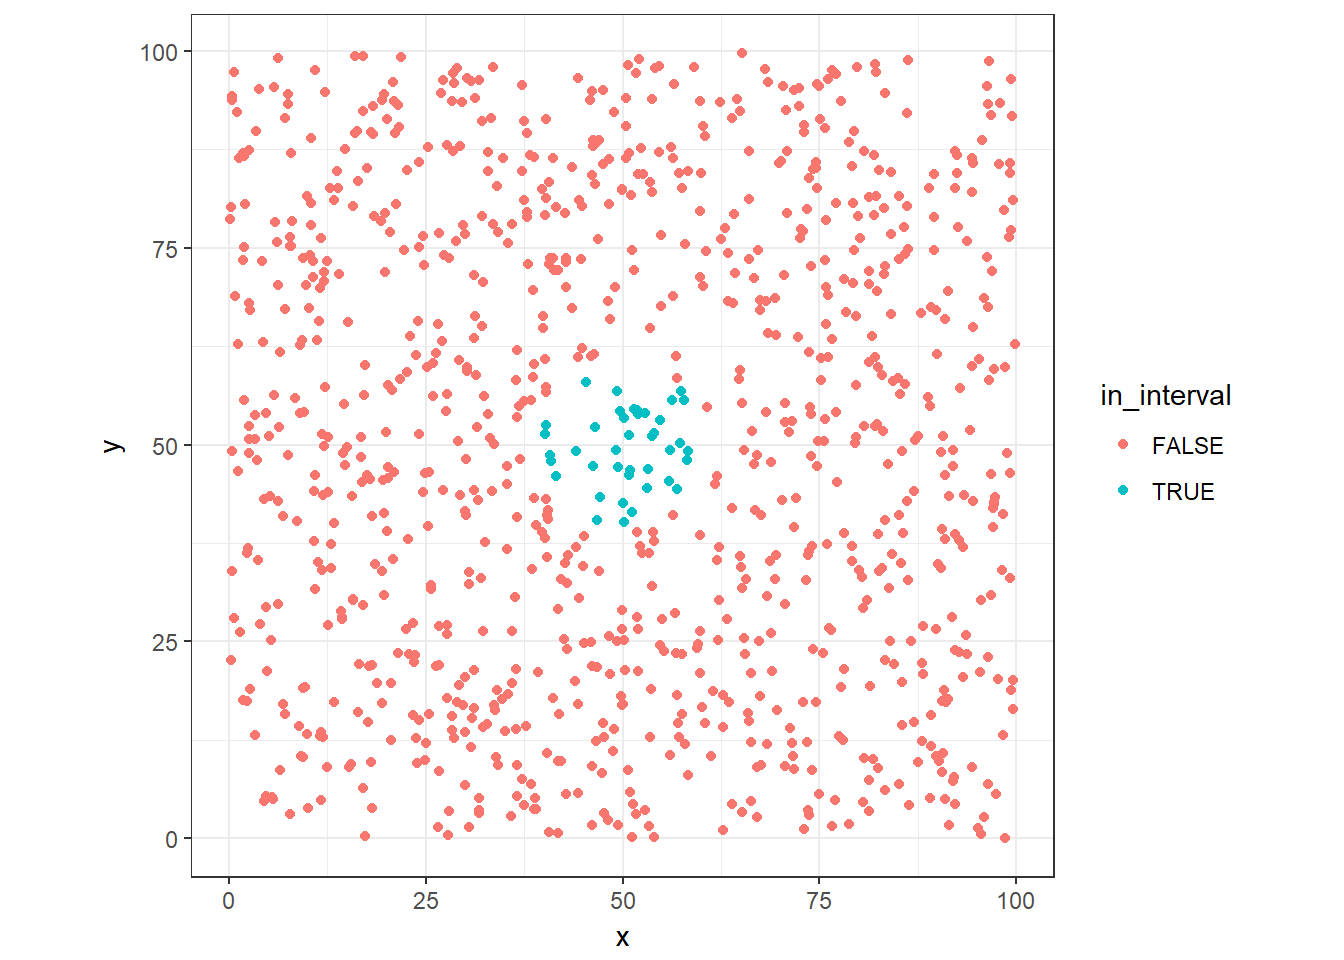
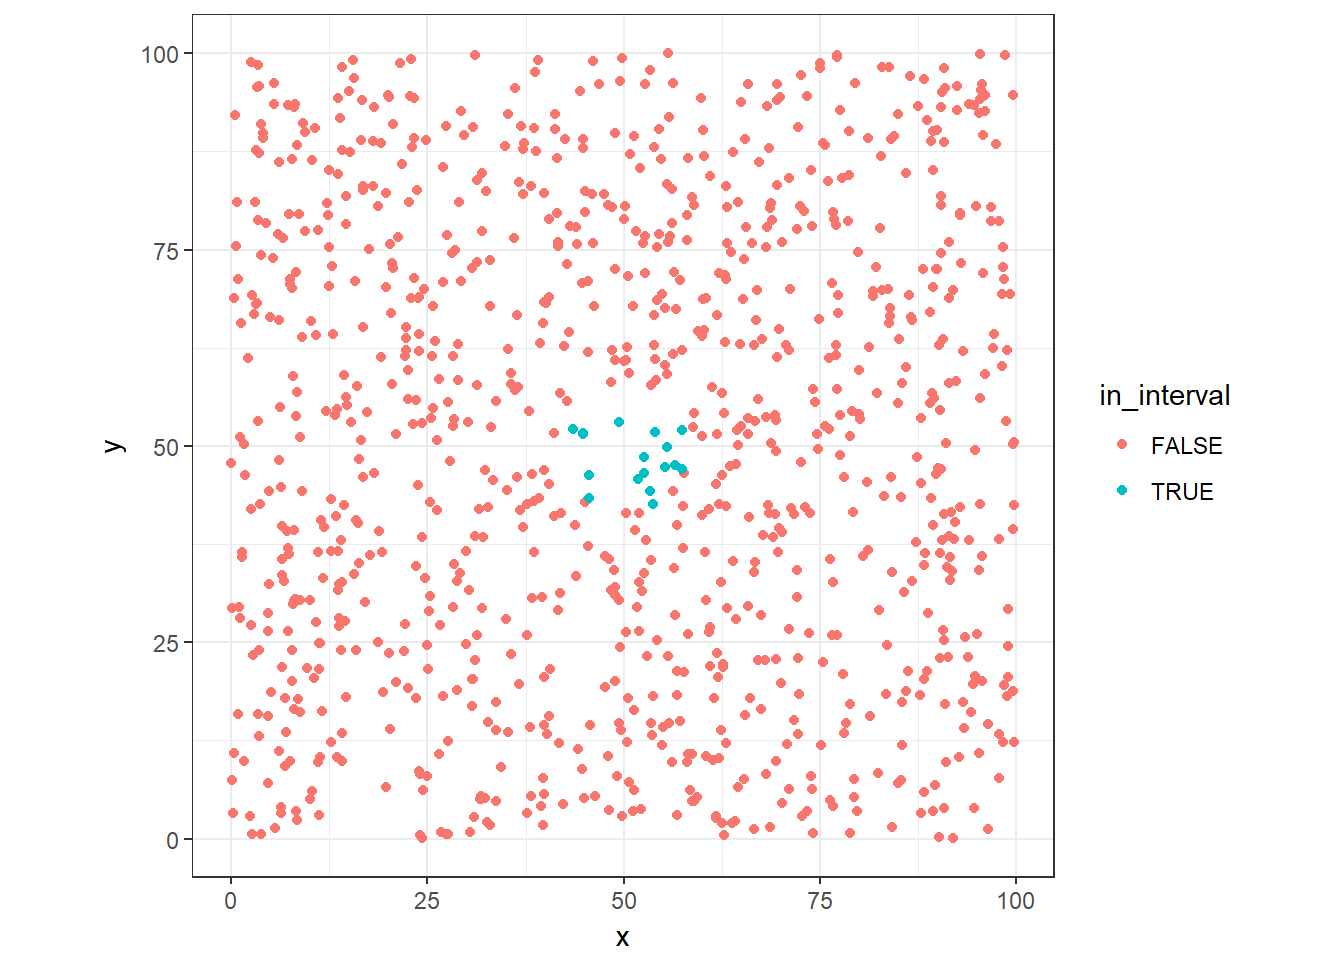
ending the new post about TCX and ggmap

diff --git a/content/post/2018-01-16-reading-your-run-and-mtb-tracks-with-r.html b/content/post/2018-01-16-reading-your-run-and-mtb-tracks-with-r.html
@@ -1,34 +1,33 @@
 ---
-title: Reading your run and MTB tracks with R
-author: Giuliano Sposito
+title: "Ploting your MTB track with R"
+author: "Giuliano Sposito"
 date: '2018-01-16'
-categories:
-  - data science
-tags:
-  - gps
-  - workout
-  - rstat
-  - gpx
-  - tcx
-  - runtastic
-  - strava
-  - fitbit
-slug: reading-your-run-and-mtb-tracks-with-r
-thumbnailImagePosition: left
-thumbnailImage: images/fitbit_tn.jpg
 coverImage: /images/mtb_cover.jpg
-metaAlignment: center
 disqusIdentifier: rstatreadingtcxfiles
+metaAlignment: center
+slug: reading-your-run-and-mtb-tracks-with-r
+tags:
+- gps
+- workout
+- rstat
+- gpx
+- tcx
+- runtastic
+- strava
+- fitbit
+thumbnailImage: images/fitbit_tn.jpg
+thumbnailImagePosition: left
+categories: data science
 ---
 
 
 
-<p>In this <a href="http://rmarkdown.rstudio.com/r_notebooks.html">RNotebook</a> we’ll read a <a href="https://en.wikipedia.org/wiki/Training_Center_XML">TCX</a> and <a href="https://en.wikipedia.org/wiki/GPS_Exchange_Format">GPX</a> files, used to track physical training and exercises evolving GPS and paths used by some workout Mobile Apps and Devices.</p>
-<div id="tracking-files" class="section level2">
-<h2>Tracking Files</h2>
+<p>In this <a href="http://rmarkdown.rstudio.com/r_notebooks.html">RNotebook</a> we’ll read a <a href="https://en.wikipedia.org/wiki/Training_Center_XML">TCX</a> and <a href="https://en.wikipedia.org/wiki/GPS_Exchange_Format">GPX</a> files, used to track physical training and exercises evolving GPS and paths used by some workout Mobile Apps and Devices. Particularly we’ll will process one TCX file containing a MTB ride mine and transforming the a useful R data.frame ploting the ride track over a map.</p>
+<div id="tracking-files1" class="section level2">
+<h2>Tracking Files<a href="#fn1" class="footnoteRef" id="fnref1"><sup>1</sup></a></h2>
 <p>There are two popular file format to track workouts and routes through GPS devices: GPX and TCX.</p>
 <p><strong>GPX</strong> is an <a href="https://en.wikipedia.org/wiki/XML">XML</a> format designed specifically for saving GPS track, way point and route data. It is increasingly used by GPS programs because of its flexibility as an XML schema. More information can be found on the official <a href="http://www.topografix.com">GPX website</a>.</p>
-<p>The <strong>TCX</strong> format is also an <a href="https://en.wikipedia.org/wiki/XML">XML</a> format, but was created by <a href="http://www.garmin.com">Garmin</a> to include additional data with each track point (e.g. heart rate and cadence) as well as a user defined organizational structure. The format appears to be primarily used by Garmin’s fitness oriented GPS devices. The TCX schema is hosted by <a href="http://www.garmin.com">Garmin</a>.<a href="#fn1" class="footnoteRef" id="fnref1"><sup>1</sup></a></p>
+<p>The <strong>TCX</strong> format is also an <a href="https://en.wikipedia.org/wiki/XML">XML</a> format, but was created by <a href="http://www.garmin.com">Garmin</a> to include additional data with each track point (e.g. heart rate and cadence) as well as a user defined organizational structure. The format appears to be primarily used by Garmin’s fitness oriented GPS devices. The TCX schema is hosted by <a href="http://www.garmin.com">Garmin</a>.</p>
 <p>Many of the dozens of other formats can be converted into GPX or TCX formats using <a href="http://www.gpsbabel.org">GPSBabel</a>.</p>
 </div>
 <div id="reading-a-tcx-file" class="section level2">
@@ -147,8 +146,50 @@ ggplot(track, aes(x=dt, y=hbpm)) +
   theme_bw() </code></pre>
 <p><img src="/post/2018-01-16-reading-your-run-and-mtb-tracks-with-r_files/figure-html/plotAlt-1.png" width="672" /></p>
 </div>
-<div id="reading-a-gpx-file" class="section level2">
-<h2>Reading a GPX file</h2>
+<div id="ploting-the-track" class="section level2">
+<h2>Ploting the track</h2>
+<p>We can take the latitude and longitude coordenates extract from TCX and plot the path executed during this ride. This is pretty straighforward using <code>geom_path()</code>in <code>ggplot2</code>.</p>
+<pre class="r"><code># ploting latitude in N/S orietation and lon as E/L orientation
+ggplot(track, aes(x=lon, y=lat)) +
+  geom_path(aes(colour=alt), size=1.2) + # ploting alt as color reference
+  scale_colour_gradientn(colours = terrain.colors(10)) + # color scale
+  coord_fixed() + # to keep the aspect ratio
+  theme_void() # removint axis</code></pre>
+<p><img src="/post/2018-01-16-reading-your-run-and-mtb-tracks-with-r_files/figure-html/plotTrack-1.png" width="672" /></p>
+<p>That’s cool, we extract the GPS path from TCX file and plot them with a couple of lines, just remaining plot over a map, and this is easy too, using <code>ggmap</code>package.</p>
+</div>
+<div id="ploting-over-a-map" class="section level2">
+<h2>Ploting over a map</h2>
+<p>The <a href="https://cran.r-project.org/web/packages/ggmap/index.html">ggmap R Package</a> is a collection of functions to visualize spatial data and models on top of static maps from various online sources (e.g Google Maps and Stamen Maps). It includes tools common to those tasks, including functions for geolocation and routing.</p>
+<p>The package uses some providers to get a “background” image to be used as base map, also maps the scale of the image to the appropriate lat/lon coordenates.</p>
+<pre class="r"><code>library(ggmap)
+
+# first we define a &quot;box&quot; based on lats and lons that will ploted over
+# the make_bbox build it.
+bbox &lt;- make_bbox(lon = track$lon, lat=track$lat, f=.1)
+
+# after that we ask for a map containing this box to one of the providers
+# in this case we&#39;ll ask for google maps a &#39;terrain map&#39;
+gmap &lt;- get_map( location=bbox, maptype = &quot;terrain&quot;, source=&quot;google&quot;)
+
+# we can see the map obtained
+ggmap(gmap)</code></pre>
+<p><img src="/post/2018-01-16-reading-your-run-and-mtb-tracks-with-r_files/figure-html/mapBackground-1.png" width="672" /></p>
+<p>Once with the map background in hands, we just plot the track over it, changing the color scale to improve the contrast.</p>
+<pre class="r"><code># now the ggmap is the base o ggplot
+ggmap(gmap) +
+  # ploting the path using lon and lat as coordenates and alt as color
+  geom_path(data=track, aes(x=lon, y=lat, colour=alt), size=1.2) + 
+  scale_colour_gradientn(colours = topo.colors(10)) + # color scale
+  coord_fixed() + # to keep the aspect ratio
+  theme_void() # removint axis</code></pre>
+<p><img src="/post/2018-01-16-reading-your-run-and-mtb-tracks-with-r_files/figure-html/plotOverMap-1.png" width="672" /></p>
+</div>
+<div id="conclusion" class="section level2">
+<h2>Conclusion</h2>
+<p>As we saw, it’s pretty straightforward to get the data in the XML and transform them in a useful R data frame. Obviously if the XML was more complicated, with several activities and laps, we should handle this info if we want keep these informations before read the <code>trackpoints</code>. The data frame with track points would gain <code>activity.id</code> and <code>lap.id</code> columns. The use of <code>ggmap</code> is very helpful to use maps and gglot together.</p>
+<div id="appendix-reading-a-gpx-file" class="section level3">
+<h3>Appendix: Reading a GPX file</h3>
 <p>Basically, as we using XPath to get the data points, reading a GPX file is pretty the same, let’s look the structure of one file exported from <a href="http://www.runtastic.com">Runtastic website</a></p>
 <pre class="xml"><code>
 &lt;?xml version=&quot;1.0&quot; encoding=&quot;UTF-8&quot;?&gt;
@@ -189,7 +230,7 @@ ggplot(track, aes(x=dt, y=hbpm)) +
   &lt;/trk&gt;
 &lt;/gpx&gt;
 </code></pre>
-<p>Basically same metadata in the beginning and the <code>track points</code> are in the nodes <code>trkpt</code> but the struct is different, the GPS coords are <code>attributes</code> of these nodes while <code>elevation</code> and <code>time</code> are sub-nodes in the value. We’ll have to use XPath different to get the value and the attributes.</p>
+<p>Basically it’s about same, with a metadata in the beginning and the <code>track points</code> are in the nodes <code>trkpt</code>, but the struct is different. The GPS coords are <code>attributes</code> of these nodes while <code>elevation</code> and <code>time</code> are sub-nodes in the value. We’ll have to use XPath different to get the value and the attributes.</p>
 <pre class="r"><code># reading the xml file download from runtastic
 file &lt;- htmlTreeParse(file = &quot;runtastic_20170611_1134_Cycling.gpx&quot;,
                       error = function (...) {},
@@ -213,9 +254,9 @@ data_frame(
 ) %&gt;% mutate(
   tm.prev.s = c(0, diff(dt)), # time (s) from previous track point
   tm.cum.min  = round(cumsum(tm.prev.s)/60,1) # cumulative time (min)
-) -&gt; track
+) -&gt; gpx.track
 
-print(track)</code></pre>
+print(gpx.track)</code></pre>
 <pre><code>## # A tibble: 3,625 x 6
 ##    dt                    lat   lon   alt tm.prev.s tm.cum.min
 ##    &lt;dttm&gt;              &lt;dbl&gt; &lt;dbl&gt; &lt;dbl&gt;     &lt;dbl&gt;      &lt;dbl&gt;
@@ -231,12 +272,9 @@ print(track)</code></pre>
 ## 10 2017-06-11 11:45:24 -22.7 -46.8   674      3.00      0.400
 ## # ... with 3,615 more rows</code></pre>
 </div>
-<div id="conclusion" class="section level2">
-<h2>Conclusion</h2>
-<p>As we saw, it’s pretty straightforward to get the data in the XML and transform them in a useful R data frame. Obviously if the XML was more complicated, with several activities and laps, we should handle this info if we want keep these informations before read the <code>trackpoints</code>. The data frame with track points would gain <code>activity.id</code> and <code>lap.id</code> columns.</p>
+<div id="references" class="section level3">
+<h3>References</h3>
 </div>
-<div id="references" class="section level2">
-<h2>References</h2>
 </div>
 <div class="footnotes">
 <hr />

diff --git a/content/post/2018-01-15-curse-of-dimensionality.html b/content/post/2018-01-15-curse-of-dimensionality.html
@@ -43,7 +43,7 @@ ggplot(dt, aes(x=x, y=y)) + geom_point() + coord_fixed(ratio = 1) + theme_bw()</
 <pre class="r"><code>x_dist &lt;- quantile(x=dt$x,probs = .1)
 x_dist</code></pre>
 <pre><code>##      10% 
-## 10.69855</code></pre>
+## 8.265947</code></pre>
 <p>We can see that in one dimension the size of the range necessary to get 10% of the data points are around 10% of this dimensions (uniform distributed)</p>
 <pre class="r"><code># mark the points in this range
 dt %&gt;%
@@ -65,11 +65,11 @@ ggplot(dt, aes(x=x, y=y, colour=in_interval)) +
 dt %&gt;%
   filter(in_interval==T) %&gt;%
   nrow()</code></pre>
-<pre><code>## [1] 122</code></pre>
+<pre><code>## [1] 83</code></pre>
 </div>
 <div id="two-dimension" class="section level2">
 <h2>Two Dimension</h2>
-<p>Now, lets see the case in two dimensions, first we’ll use the same interval found in one dimension case: 10.6985488, but in this case, we need to check points around <code>(x=50, y=50)</code>.</p>
+<p>Now, lets see the case in two dimensions, first we’ll use the same interval found in one dimension case: 8.2659468, but in this case, we need to check points around <code>(x=50, y=50)</code>.</p>
 <pre class="r"><code>dt %&gt;%
   mutate(
     in_interval = case_when(
@@ -91,8 +91,8 @@ dt %&gt;%
 sel_points_pct &lt;- sel_points/total_points
 
 sel_points</code></pre>
-<pre><code>## [1] 40</code></pre>
-<p>In fact, with the new distance, we can only reach 4 % of the data points adding one dimension. Can we find how much be the size of the radius to get 10% of the points?</p>
+<pre><code>## [1] 17</code></pre>
+<p>In fact, with the new distance, we can only reach 1.7 % of the data points adding one dimension. Can we find how much be the size of the radius to get 10% of the points?</p>
 <pre class="r"><code># percents 
 dists &lt;- 1:100
 
@@ -122,7 +122,7 @@ print(twoDim10pct)</code></pre>
 <pre><code>## # A tibble: 1 x 3
 ##    dist points    pct
 ##   &lt;int&gt;  &lt;int&gt;  &lt;dbl&gt;
-## 1    17     95 0.0950</code></pre>
+## 1    17     94 0.0940</code></pre>
 <p>The distance to get 10% of data points are 17 in size, about twice the original range in one dimension.</p>
 <pre class="r"><code>dt %&gt;%
   mutate(
@@ -179,10 +179,10 @@ multDimCases %&gt;%
 ## # Groups: dimensions [5]
 ##   dimensions  dist
 ##   &lt;fctr&gt;     &lt;int&gt;
-## 1 d1             3
+## 1 d1             4
 ## 2 d2            17
-## 3 d3            29
-## 4 d4            38
+## 3 d3            28
+## 4 d4            36
 ## 5 d5            45</code></pre>
 </div>
 <div id="conclusion" class="section level2">
